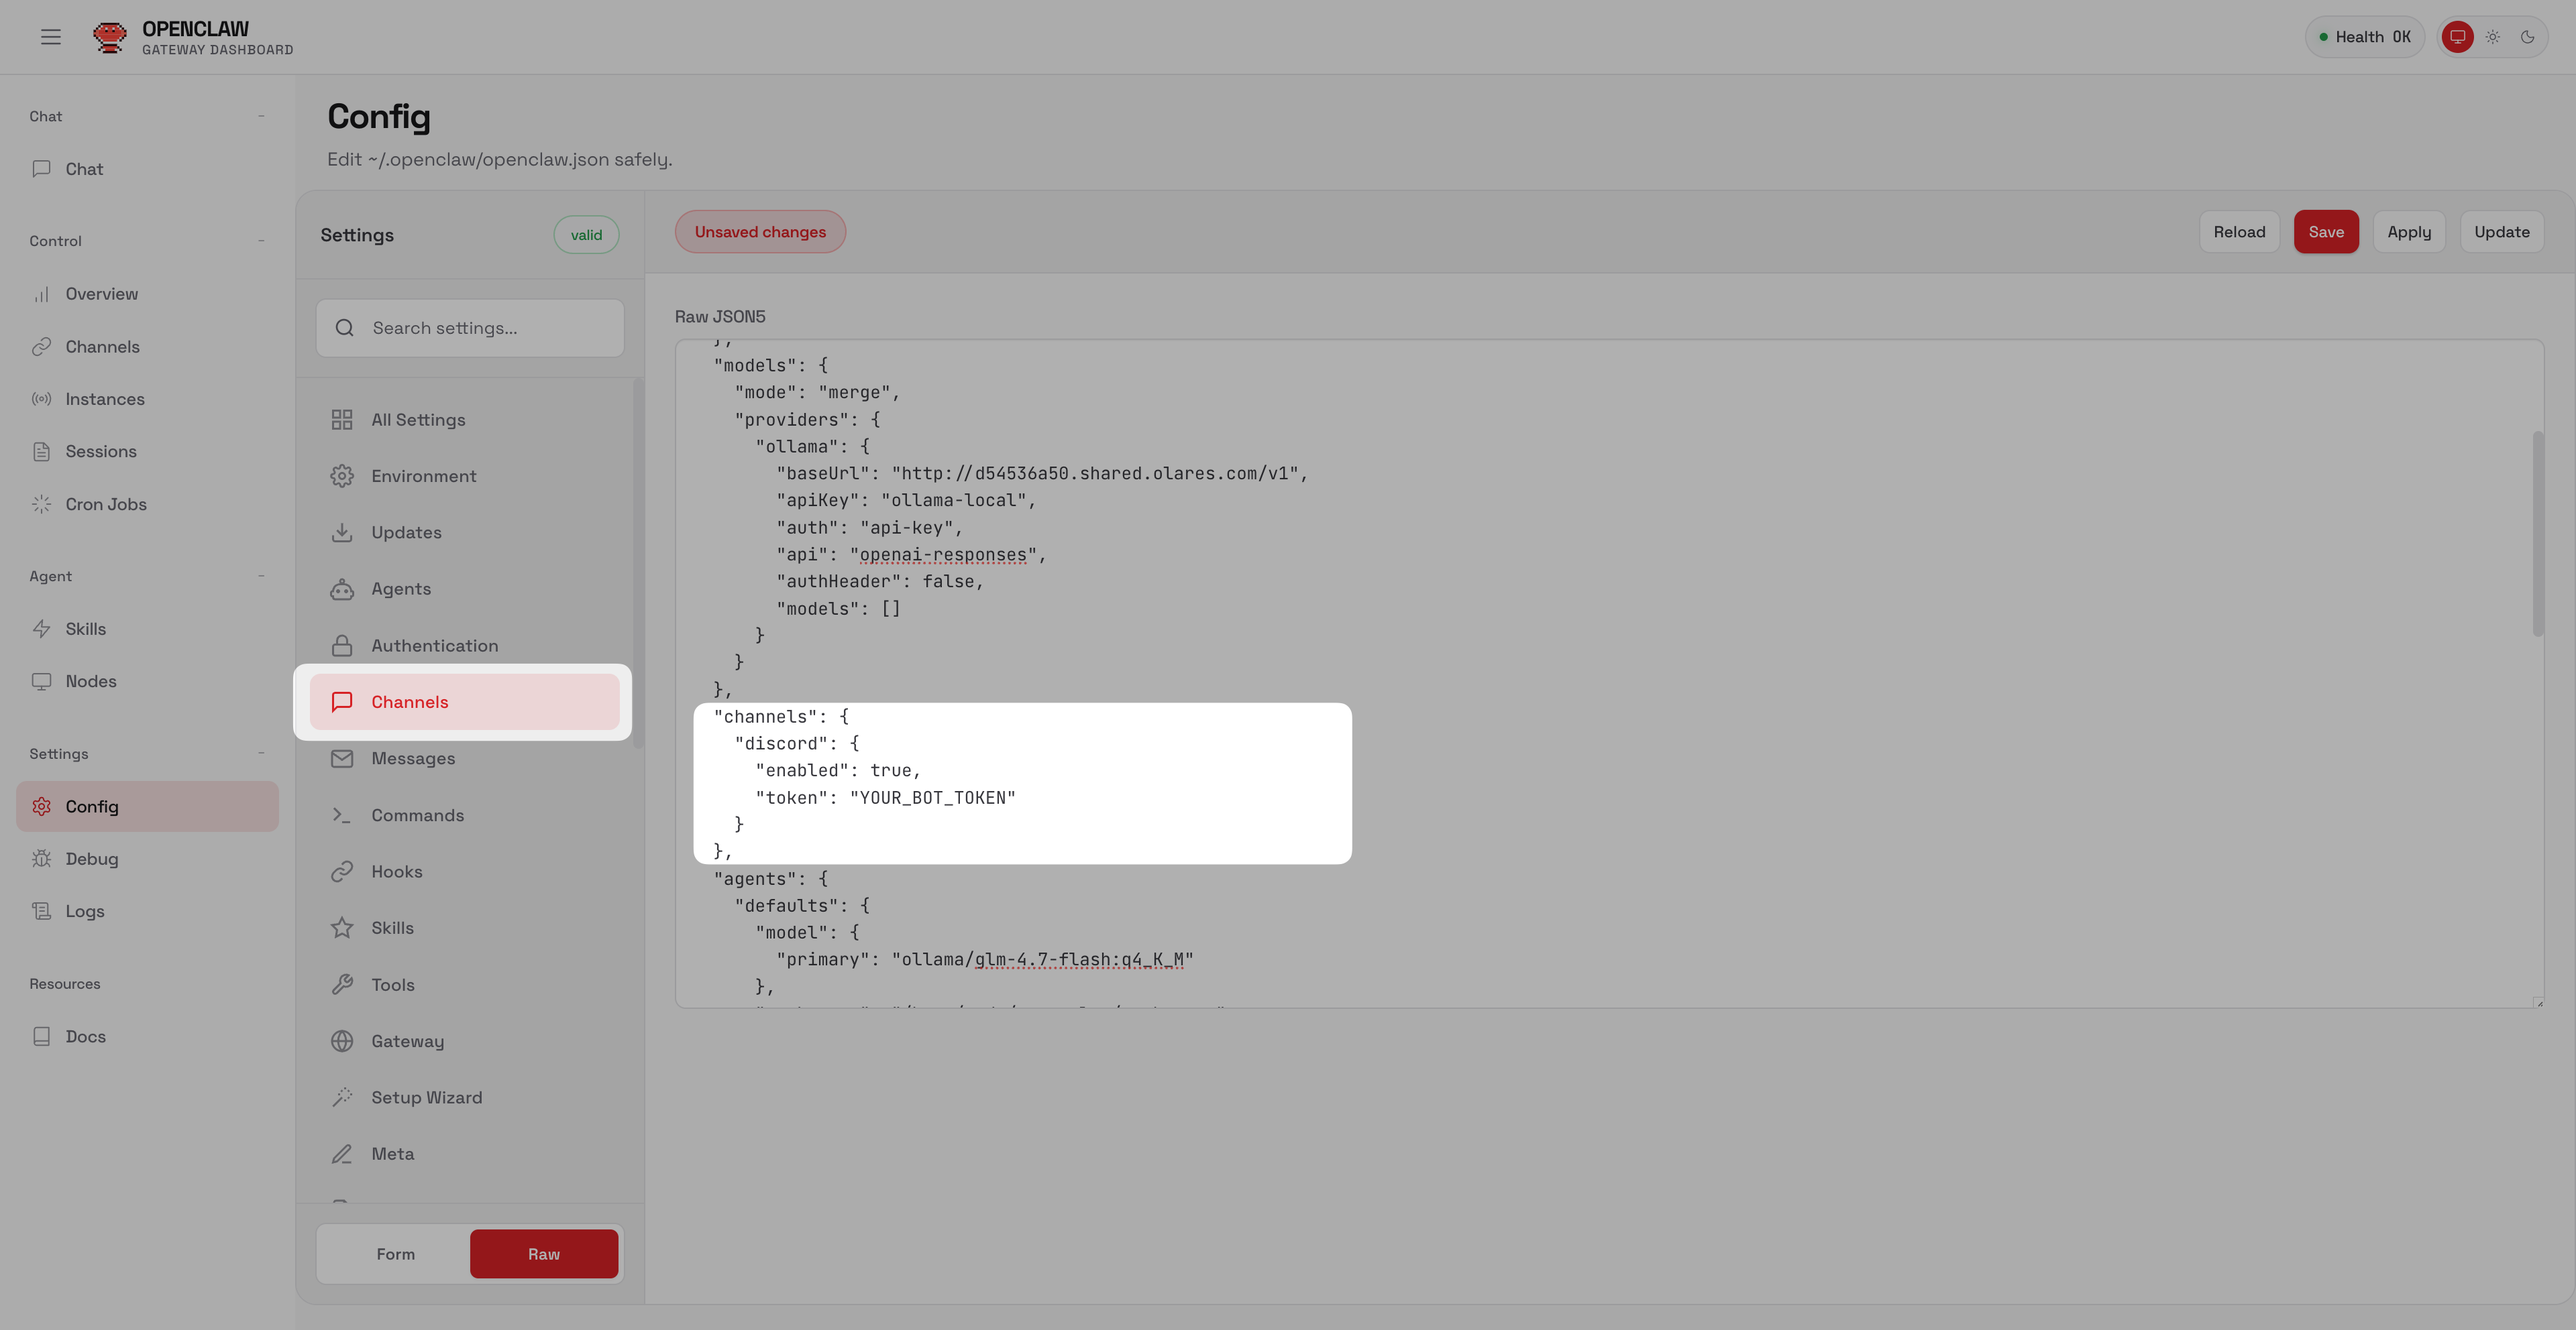
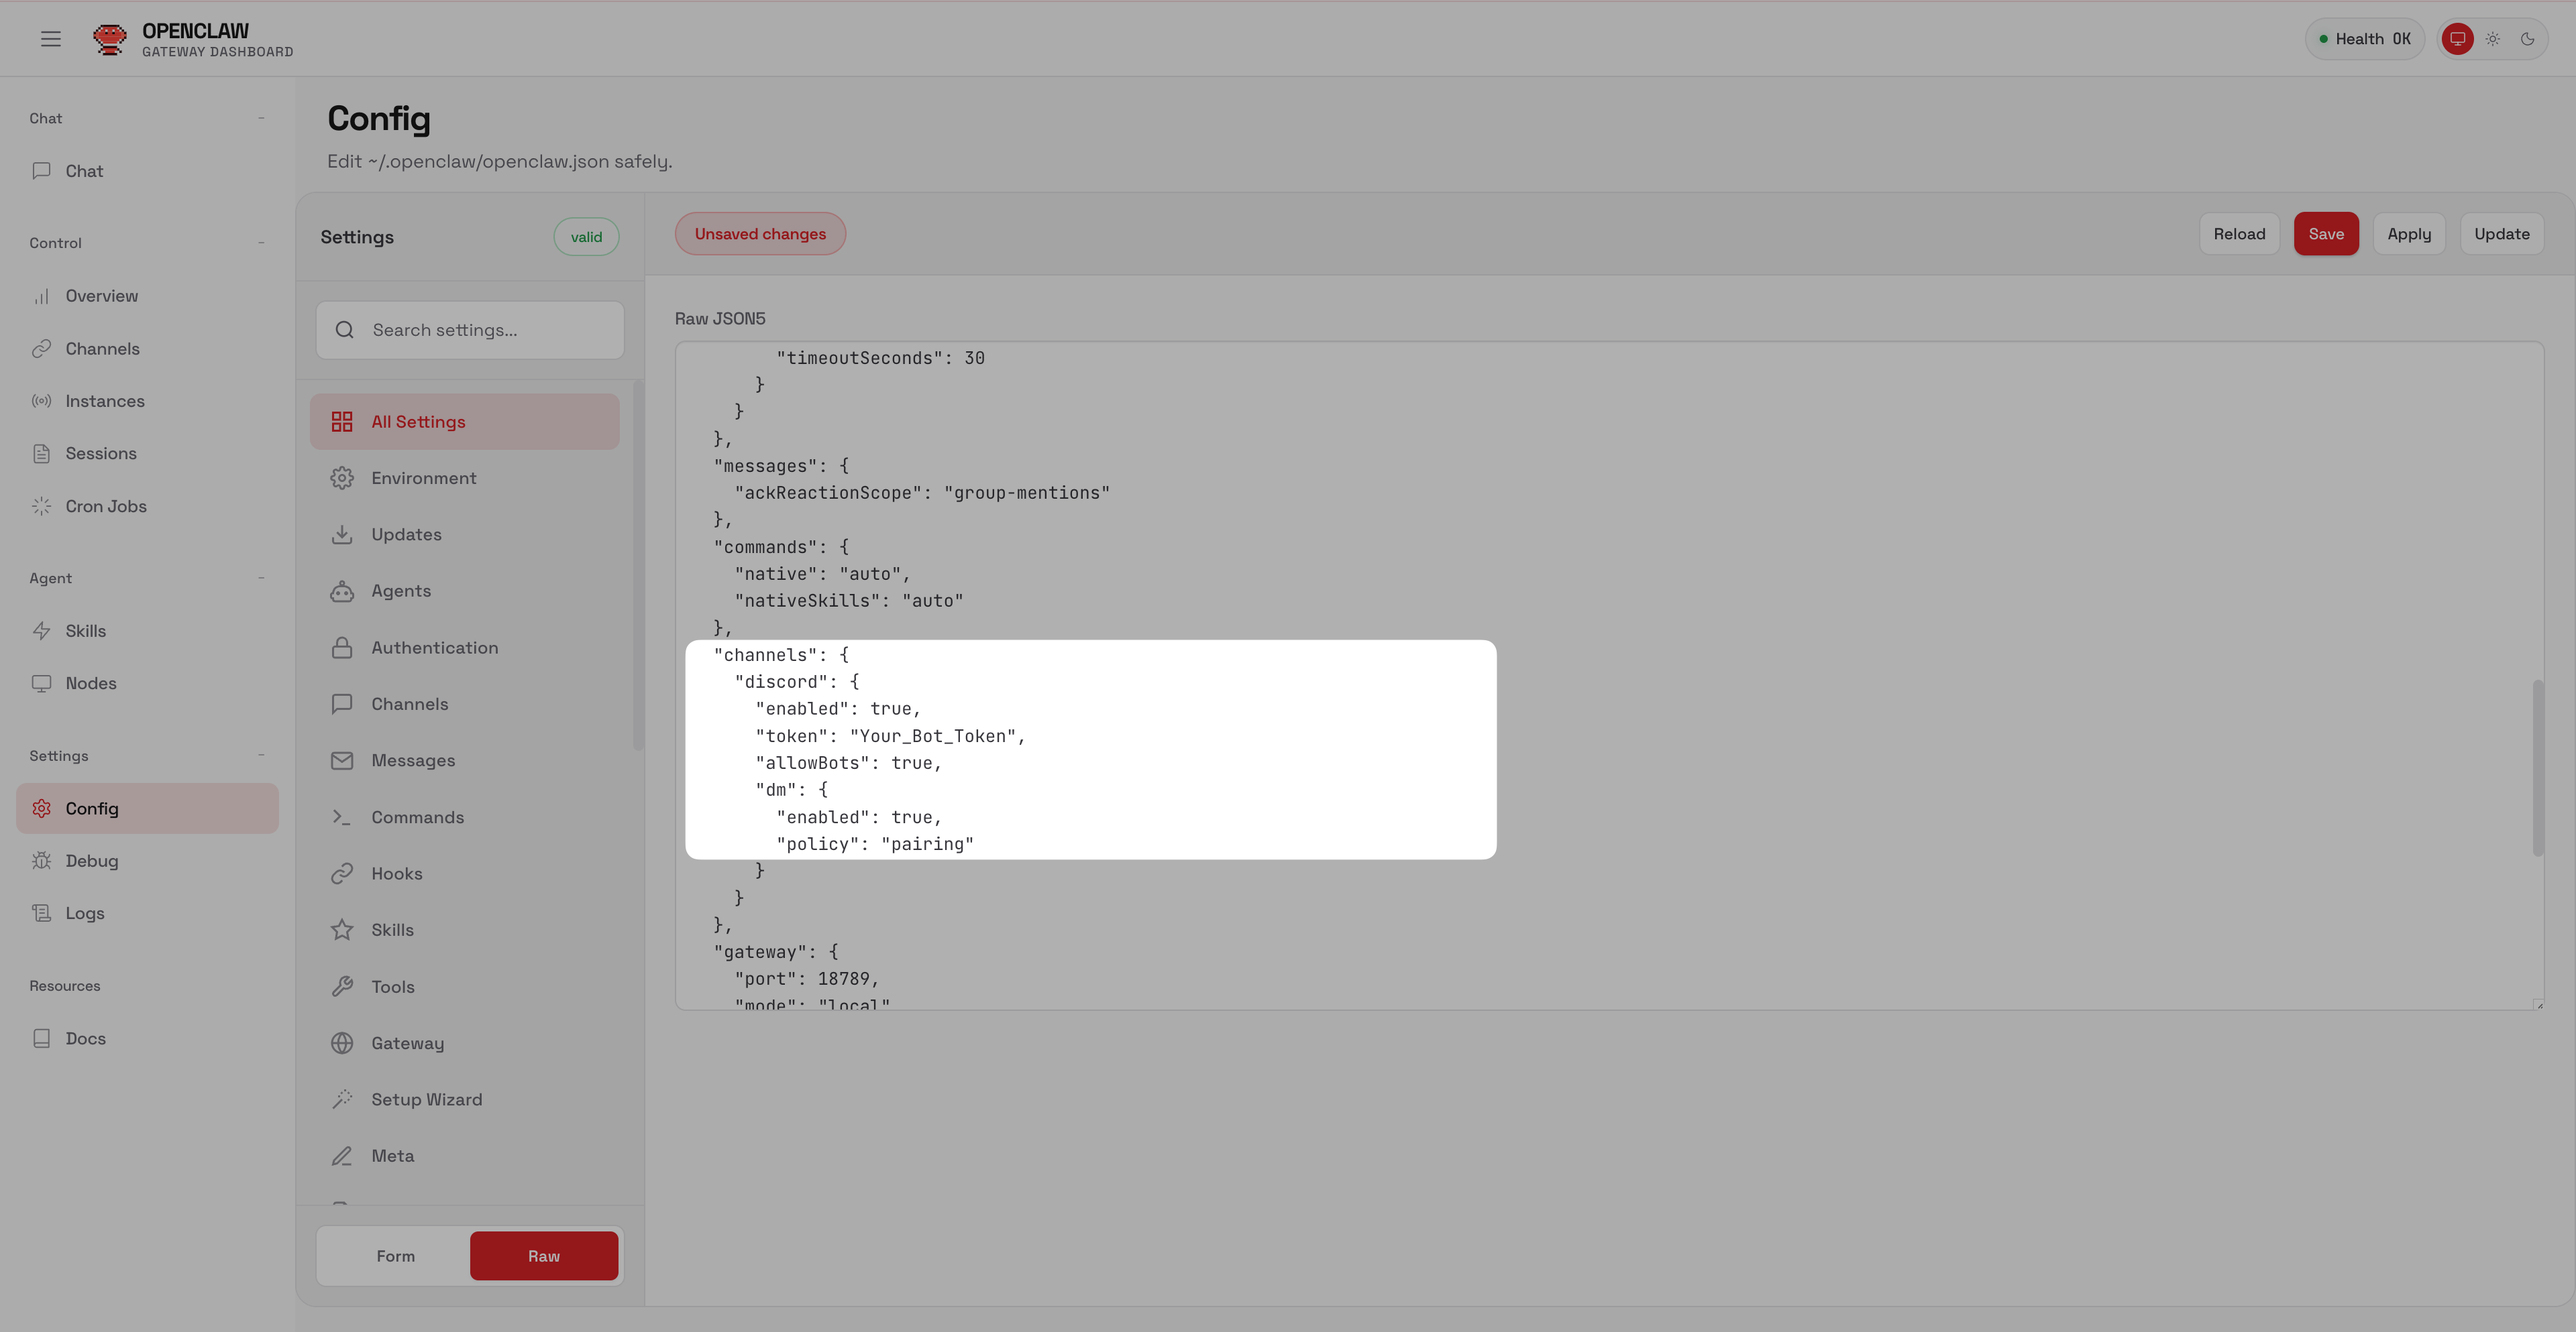
modify images, refine text for clarity

diff --git a/docs/use-cases/openclaw.md b/docs/use-cases/openclaw.md
@@ -13,7 +13,7 @@ OpenClaw is a personal AI assistant that is designed to run on your local device
 
 It acts as an "always-on" operator that can execute real tasks, such as searching and sending documents, managing calendars, or browsing webpages.
 
-## Learning objective
+## Learning objectives
 
 By the end of this tutorial, you are be able to:
 
@@ -21,14 +21,18 @@ By the end of this tutorial, you are be able to:
 - Pair and connect the OpenClaw CLI and the Control UI.
 - Configure OpenClaw to use the local AI model Ollama.
 - Integrate OpenClaw with Discord.
-- Enable web search capabilities using Brave Search.
+- Enable the web search capability using Brave Search.
 
 ## Prerequisites
 
 - Local model: Ensure Ollama is installed and running. You must have a tool-capable model installed, such as `glm-4.7-flash`, `qwen3`, and `llama3.1`. This tutorial uses `llama3.1:8b`.
 - Discord account: Required to create the bot application.
 - Discord server: A server where you have permissions to add bots.
-- (Optional) Brave search API key: Required for the agent to search web for real-time information. You can obtain a free API key from the [Brave Search API](https://brave.com/search/api/).
+- (Optional) Brave search API key: Required for the agent to search the web for real-time information. 
+
+    :::tip Tip
+    You can obtain a free API key from the [Brave Search API](https://brave.com/search/api/). The free tier of the "Data for Search"" plan is usually sufficient for personal use.
+    :::
 
 ## Install OpenClaw
 
@@ -36,9 +40,7 @@ By the end of this tutorial, you are be able to:
 
     ![Search for OpenClaw from Market](/images/manual/use-cases/find-openclaw.png#bordered){width=90%}
 
-2. Click **Get**, and then click **Install**.
-
-    When the installation finishes, two shortcuts appear in the Launchpad:
+2. Click **Get**, and then click **Install**. When the installation finishes, two shortcuts appear in the Launchpad:
     - **OpenClaw CLI**: The command line interface
     - **Control UI**: The graphical dashboard
 
@@ -48,7 +50,7 @@ By the end of this tutorial, you are be able to:
 
 Run a quick setup for the agent in the OpenClaw CLI.
 
-1. Open the OpenClaw CLI app from Launchpad.
+1. Open the OpenClaw CLI app from the Launchpad.
 2. Enter the following command to start the onboarding wizard.
 
     ```bash
@@ -56,13 +58,26 @@ Run a quick setup for the agent in the OpenClaw CLI.
     ```
     ![OpenClaw onboarding wizard](/images/manual/use-cases/openclaw-wizard.png#bordered){width=80%}
 
-3. The wizard guides you through several steps. Use the arrow keys to navigate and press Enter to confirm.
+3. The wizard guides you through a series of steps. Use the arrow keys to navigate and press Enter to confirm.
 
     :::tip Note on configurations
-    To get you started quickly, this tutorial will skip some advanced settings in the wizard. You can configure the AI models and Discord connection later using the Control UI.
+    To get you started quickly, this tutorial skips several advanced settings in the wizard. You can configure or modify them later.
     :::
 
-    a. **I understand this is powerful and inherently risky. Continue?**: Select **Yes**.
+    | Settings | Option |
+    |:-------- |:-------|
+    |I understand this is powerful and inherently risky. Continue?|Yes|
+    |Onboarding mode|QuickStart|
+    |Config handling|Use existing values|
+    |Model/auth provider|Skip for now|
+    |Filter models|All providers|
+    |Default model|Keep current|
+    |Select channel|Skip for now|
+    |Configure skills now|No|
+    |Enable hooks|Skip for now|
+    |Hatch your bot|Do this later|
+    
+<!--a. **I understand this is powerful and inherently risky. Continue?**: Select **Yes**.
     
     b. **Onboarding mode**: Select **QuickStart**.
 
@@ -81,11 +96,11 @@ Run a quick setup for the agent in the OpenClaw CLI.
     i. **Enable hooks**: Select **Skip for now**.
 
     j. **Hatch your bot**: Select **Do this later**.
+-->
 
 4. After you complete the wizard, scroll up to the **Control UI** section.
-
 5. Copy and save the token displayed in the **Web UI (with token)**. 
-6. Keep the CLI window open.
+6. Keep the CLI window open for the next step.
 
 ## Pair device
 
@@ -121,13 +136,11 @@ Connect the Control UI to the OpenClaw CLI to use the graphical dashboard.
 3. Find the `agents` section and update the `defaults` block to specify your primary model. Ensure that the model name matches the one installed in Ollama.
 
     ```json
-    {
     "agents": {
         "defaults": {
         "model": {
             "primary": "ollama/llama3.1:8b"
         },
-        //
         "workspace": "/home/node/.openclaw/workspace",
         "maxConcurrent": 4,
         "subagents": {
@@ -135,9 +148,8 @@ Connect the Control UI to the OpenClaw CLI to use the graphical dashboard.
         }
         }
     },
-    }
     ```
-4. Click **Save** in the top right corner. The system validates the config and restarts automatically to apply the changes.
+4. Click **Save** in the upper-right corner. The system validates the config and restarts automatically to apply the changes.
 
 ## Integrate with Discord
 
@@ -166,11 +178,9 @@ To chat with your agent remotely, connect it to a Discord Bot.
 
 ### Step 2. Invite the bot to server
 
-Generate the URL to use for invite the newly created bot to your Discord server.
-
 1. From the left sidebar, select **OAuth2**, and then find the **OAuth2 URL Generator** section:
 
-    a. In **Scopes**, select **Bot**.
+    a. In **Scopes**, select **Bot** and **applications.commands**.
 
     ![OAuth2 URL Generator](/images/manual/use-cases/oauth2.png#bordered)
 
@@ -183,28 +193,36 @@ Generate the URL to use for invite the newly created bot to your Discord server.
 
     ![Bot added to server](/images/manual/use-cases/bot-added.png#bordered)
 
-### Step 3: Configure OpenClaw channel
+### Step 3: Configure channel in OpenClaw
 
-Configure OpenClaw channel in Control UI.
+Configure the Discord channel in Control UI.
 
 1. Return to the **Control UI** > **Config** > **Raw** tab.
-2. Find the `channels` section and update with your Discord bot token:
+2. Find the `channels` section:
+
+    a. Update with your Discord bot token.
+
+    b. Enable Discord DM and set the Discord DM Policy to **Pairing**.
+
 
     ```json
-    {
     "channels": {
         "discord": {
         "enabled": true,
-        "token": "YOUR_BOT_TOKEN"
+        "token": "{YOUR_BOT_TOKEN}",
+        "allowBots": true,
+        "dm": {
+            "enabled": true,
+            "policy": "pairing"
+        }
         }
     },
-    }
     ```
+
     ![Discord channel added](/images/manual/use-cases/channels.png#bordered)
 
-3. Set the Discord DM policy to **Pairing**.这步骤待验证，环境今天有问题
-4. Click **Save**.
-5. From the left sidebar, select **Channels**. On the Discord card, **Probe ok** indicates successful connection.
+3. Click **Save**.
+4. From the left sidebar, select **Channels**. On the Discord card, **Probe ok** indicates successful connection.
 
    ![Probe OK](/images/manual/use-cases/probe-ok.png#bordered)
 
@@ -212,7 +230,7 @@ Configure OpenClaw channel in Control UI.
 
 For security, the bot will not talk to unauthorized users. You must pair your Discord account with the bot.
 
-1. Open Discord and send a Direct Message to your new Bot. The Bot will reply with an error message containing a Pairing Code.
+1. Open Discord and send a Direct Message to your new bot. The bot will reply with an error message containing a Pairing Code.
 2. Open the OpenClaw CLI and enter the following command:
     ```bash
     openclaw pairing approve discord {Your-Pairing-Code}
@@ -221,7 +239,9 @@ For security, the bot will not talk to unauthorized users. You must pair your Di
 
 ## (Optional) Enable web search
 
-To allow your agent to browse the internet, you can enable the Web tool using Brave Search.
+By default, OpenClaw answers questions only based on its training data, which means it doesn't know about current events or real-time news. To give your agent access to the live internet, you can enable the web search tool.
+
+OpenClaw officially recommends Brave Search. Unlike other providers, Brave Search uses an independent web index optimized for AI retrieval, ensuring your agent finds accurate information.
 
 1. Open the OpenClaw CLI.
 2. Run the following command to start the web configuration wizard:
@@ -229,11 +249,48 @@ To allow your agent to browse the internet, you can enable the Web tool using Br
     ```bash
     openclaw configure --section web
     ```
-3. Select **Yes** to enable web search.
-4. Paste your Brave Search API Key.
-5. Select **Yes** to allow the agent read page content.
+3. Configure the basic settings as follows:
 
-Now your agent can answer questions that require real-time internet data, such as "What is the latest news on Olares".
+    |Settings|Option|
+    |:-------|:-----|
+    |Where will the Gateway run|Local (this machine)|
+    |Enable web_search (Brave Search)|Yes|
+    |Brave Search API key| Your `BraveSearchAPIkey` |
+    |Enable web_fetch (keyless HTTP fetch)|Yes|
+
+4. Finalize the configuration in Control UI.
+
+    The CLI wizard sets up the API key, but you can customize specific tool parameters such as timeouts and limits in the Control UI.
+
+    a. Return to the **Control UI** > **Config** > **Raw** tab. 
+
+    b. Find the `tools` section and update as follows: 
+
+    ```json
+    "tools": {
+        "web": {
+        "search": {
+            "enabled": true,
+            "provider": "brave",
+            "apiKey": "{Your-Brave-Search-API-Key}",
+            "maxResults": 10,
+            "timeoutSeconds": 30
+        },
+        "fetch": {
+            "enabled": true,
+            "timeoutSeconds": 30
+        }
+        }
+    },
+    ```
+
+5. Now you can ask the agent in Discord to answer questions that require real-time internet data.
+
+## FAQ
+
+### I see the error "HTTP 503" or "event gap detected"
+
+If you encounter these errors in Discord or the Control UI, check your Ollama and ensure it is running properly in the background.
 
 ## Resources
 
